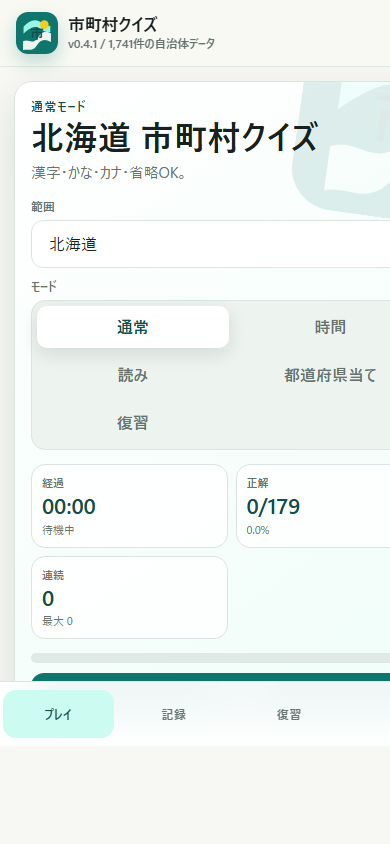
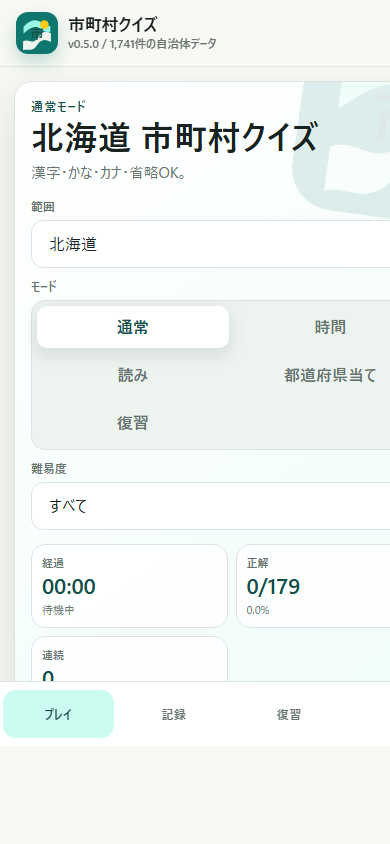
Add files via upload

Changed region(s): [[0.0615, 0.5237, 1.0, 0.8318], [0.6154, 0.5545, 0.7692, 0.7393], [0.2154, 0.0308, 0.5538, 0.0616]]

diff --git a/app.js b/app.js
@@ -40,7 +40,7 @@ const AREA_GROUPS = [
   { key: "south-kyushu-okinawa", label: "南九沖縄", prefs: ["鹿児島県", "沖縄県"] }
 ];
 
-const APP_VERSION = "v0.4.1";
+const APP_VERSION = "v0.5.0";
 const STORE_KEY = "municipality-quiz-pwa-state-v1";
 const $app = document.querySelector("#app");
 
@@ -59,6 +59,7 @@ function loadState() {
     scope: "pref:北海道",
     mode: "normal",
     timeLimit: 600,
+    difficulty: "all",
     active: null,
     sessions: [],
     reviewPref: "すべて",
@@ -67,6 +68,7 @@ function loadState() {
     wikiSummaries: {},
     lastCompleted: null,
     selectedPrefStats: null,
+    studyCardIndex: 0,
     recordsScope: "all",
     lastSavedAt: null
   };
@@ -140,6 +142,17 @@ function scopeRows(scopeKey = state.scope) {
   return master.filter((row) => targetPrefs.has(row.pref_kanji));
 }
 
+function rowMatchesDifficulty(row, difficulty = state.difficulty) {
+  if (difficulty === "city") return row.ctv_kanji.endsWith("市");
+  if (difficulty === "townVillage") return /[町村]$/.test(row.ctv_kanji);
+  if (difficulty === "noWard") return !row.ctv_kanji.endsWith("区");
+  return true;
+}
+
+function playableRows(scopeKey = state.scope, difficulty = state.difficulty) {
+  return scopeRows(scopeKey).filter((row) => rowMatchesDifficulty(row, difficulty));
+}
+
 function scopeLabel(scopeKey = state.scope) {
   return getScope(scopeKey).label;
 }
@@ -153,7 +166,7 @@ function buildScopeIndex(scopeKey) {
     if (!idx.has(k)) idx.set(k, new Set());
     idx.get(k).add(code);
   };
-  scopeRows(scopeKey).forEach((row) => {
+  playableRows(scopeKey).forEach((row) => {
     add("kanji_full", row.ctv_kanji, row.code);
     add("kanji_base", row.ctv_kanji_base, row.code);
     add("kanji_full", row.ctv_omi_kanji, row.code);
@@ -282,8 +295,8 @@ function weakStats(row) {
 }
 
 function getCurrentTotal() {
-  if (state.mode === "weak") return weakRowsForScope(state.scope).length || scopeRows(state.scope).length;
-  return scopeRows(state.scope).length;
+  if (state.mode === "weak") return weakRowsForScope(state.scope).length || playableRows(state.scope).length;
+  return playableRows(state.scope).length;
 }
 
 function startGame() {
@@ -291,6 +304,7 @@ function startGame() {
   state.active = {
     id: uid(),
     mode: state.mode,
+    difficulty: state.difficulty,
     pref: scope.label,
     scopeKey: scope.key,
     scopeLabel: scope.label,
@@ -318,10 +332,12 @@ function finishGame(auto = false) {
   const session = {
     id: active.id,
     mode: active.mode,
+    difficulty: active.difficulty,
     pref: active.pref,
     startIso: active.startIso,
     endIso: nowIso(),
     durationSec: Math.round(durationSec * 10) / 10,
+    timeLimit: active.limitSec,
     total: active.total,
     totalInputs,
     correctInputs,
@@ -422,9 +438,9 @@ function nextQuestion(render = true) {
   const active = state.active;
   let pool = [];
   if (active.mode === "reading") {
-    pool = scopeRows(active.scopeKey || state.scope);
+    pool = playableRows(active.scopeKey || state.scope);
   } else if (active.mode === "prefecture") {
-    pool = scopeRows(active.scopeKey || state.scope);
+    pool = playableRows(active.scopeKey || state.scope);
   }
   const solved = new Set(active.correctCodes);
   pool = pool.filter((row) => !solved.has(row.code));
@@ -464,7 +480,7 @@ function solvedCodesGlobal() {
 
 function weakRowsForScope(scopeKey) {
   const solved = solvedCodesGlobal();
-  return scopeRows(scopeKey).filter((row) => !solved.has(row.code));
+  return playableRows(scopeKey).filter((row) => !solved.has(row.code));
 }
 
 function allWeakRows() {
@@ -507,6 +523,21 @@ function wikiSummary(row) {
   return state.wikiSummaries?.[row.code] || "";
 }
 
+function earnedBadges() {
+  const ach = achievementByPref();
+  const totalSolved = new Set(state.sessions.flatMap((session) => session.correctCodes || [])).size;
+  const badges = [];
+  if (state.sessions.length >= 1) badges.push("初プレイ");
+  if (totalSolved >= 100) badges.push("100自治体");
+  if (totalSolved >= 500) badges.push("500自治体");
+  if (totalSolved >= 1000) badges.push("1000自治体");
+  if (ach.filter((row) => row.rate >= 1).length >= 1) badges.push("初制覇");
+  if (ach.filter((row) => row.rate >= 1).length >= 10) badges.push("10都道府県制覇");
+  if (state.sessions.some((session) => (session.totalInputs || 0) > 0 && session.correctInputs === session.totalInputs)) badges.push("ノーミス");
+  if (state.sessions.some((session) => session.mode === "time" && session.timeLimit === 180)) badges.push("3分挑戦");
+  return badges;
+}
+
 function escapeHtml(value) {
   return String(value ?? "").replace(/[&<>"']/g, (char) => ({
     "&": "&amp;",
@@ -537,6 +568,27 @@ function scopeOptions(selected = state.scope) {
   return `<optgroup label="地方・全国">${areaOptions}</optgroup><optgroup label="都道府県">${prefOptionHtml}</optgroup>`;
 }
 
+function difficultyOptions() {
+  const options = [
+    ["all", "すべて"],
+    ["city", "市だけ"],
+    ["townVillage", "町村だけ"],
+    ["noWard", "区を除く"]
+  ];
+  return options.map(([value, label]) => `<option value="${value}" ${state.difficulty === value ? "selected" : ""}>${label}</option>`).join("");
+}
+
+function duplicateReadingRows(scopeKey = state.scope) {
+  const byReading = new Map();
+  playableRows(scopeKey).forEach((row) => {
+    const key = row.ctv_omi_kana_hira_base || row.ctv_kana_hira_base;
+    if (!key) return;
+    if (!byReading.has(key)) byReading.set(key, []);
+    byReading.get(key).push(row);
+  });
+  return [...byReading.entries()].filter(([, rows]) => rows.length > 1).slice(0, 8);
+}
+
 function renderPlay() {
   const active = state.active;
   const mode = active?.mode || state.mode;
@@ -547,6 +599,7 @@ function renderPlay() {
   const timeLabel = active ? (remaining === null ? formatTime(elapsed(active)) : formatTime(remaining)) : "00:00";
   const canStart = !(state.mode === "weak" && weakRowsForScope(state.scope).length === 0);
   const currentScopeLabel = active?.scopeLabel || scopeLabel(state.scope);
+  const duplicates = !active ? duplicateReadingRows(state.scope) : [];
   return `
     <section class="hero-panel">
       <div class="hero-head">
@@ -572,6 +625,12 @@ function renderPlay() {
             </select>
           </label>
         ` : ""}
+        ${!active ? `
+          <label>
+            <span class="field-label">難易度</span>
+            <select class="select" id="difficultySelect">${difficultyOptions()}</select>
+          </label>
+        ` : ""}
       </div>
 
       <div class="stats-grid">
@@ -589,6 +648,7 @@ function renderPlay() {
         ${renderLastResult(active)}
       </div>
     </section>
+    ${duplicates.length ? `<section class="panel"><h2 class="panel-title">入力補助</h2><div class="row-sub">同じ読みがある市町村があります。市・町・村・区まで入れると狙って答えやすくなります。</div><div class="chips" style="margin-top:10px">${duplicates.map(([reading, rows]) => `<span class="chip">${escapeHtml(reading)}: ${rows.map((row) => escapeHtml(row.ctv_kanji)).join(" / ")}</span>`).join("")}</div></section>` : ""}
     ${renderLastCompleted()}
     ${renderSolvedPanel(active)}
     ${renderLogPanel(active)}
@@ -686,6 +746,7 @@ function renderLogPanel(active) {
 
 function renderRecords() {
   const ach = achievementByPref();
+  const badges = earnedBadges();
   const played = ach.filter((row) => row.count > 0).length;
   const cleared = ach.filter((row) => row.rate >= 1).length;
   const avg = ach.reduce((sum, row) => sum + row.rate, 0) / Math.max(ach.length, 1);
@@ -710,6 +771,10 @@ function renderRecords() {
       <div class="chips" style="margin-top:10px">
         ${Object.entries(MODES).map(([mode, label]) => `<span class="chip">${label}: ${Math.round(pointsByMode[mode] || 0).toLocaleString()}pt</span>`).join("")}
       </div>
+    </section>
+    <section class="panel">
+      <h2 class="panel-title">バッジ <span>${badges.length}</span></h2>
+      ${badges.length ? `<div class="chips">${badges.map((badge) => `<span class="chip">${escapeHtml(badge)}</span>`).join("")}</div>` : `<div class="empty">プレイを重ねるとバッジが増えます。</div>`}
     </section>
     <section class="panel">
       <h2 class="panel-title">都道府県別</h2>
@@ -783,6 +848,24 @@ function renderReview() {
         </div>
       `).join("")}</div>` : `<div class="empty">復習対象はまだありません。</div>`}
     </section>
+    ${weak.length ? `
+      <section class="panel">
+        <h2 class="panel-title">学習カード</h2>
+        ${(() => {
+          const row = weak[state.studyCardIndex % weak.length];
+          return `<div class="question-card">
+            <div class="question-label">${escapeHtml(row.pref_kanji)} / ${escapeHtml(row.ctv_kana)}</div>
+            <div class="question-main">${escapeHtml(row.ctv_kanji)}</div>
+          </div>
+          <div class="row-sub" style="margin-top:8px">${escapeHtml(state.notes?.[row.code] || "メモはまだありません。")}</div>
+          <div class="toolbar" style="margin-top:10px">
+            <button class="btn ghost" data-action="prevCard">前</button>
+            <button class="btn ghost" data-action="nextCard">次</button>
+            <a class="btn ghost link-btn" href="${wikipediaUrl(row)}" target="_blank" rel="noopener">Wikipedia</a>
+          </div>`;
+        })()}
+      </section>
+    ` : ""}
     <section class="panel">
       <h2 class="panel-title">未回答ランキング</h2>
       ${missed.length ? `<div class="list">${missed.map((row) => `
@@ -887,6 +970,11 @@ function bindEvents() {
     state.timeLimit = Number(event.target.value);
     saveAndRender();
   });
+  document.querySelector("#difficultySelect")?.addEventListener("change", (event) => {
+    state.difficulty = event.target.value;
+    indexCache.clear();
+    saveAndRender();
+  });
   document.querySelector("#answerForm")?.addEventListener("submit", submitAnswer);
   document.querySelector("#answerInput")?.focus();
   document.querySelector("#reviewPref")?.addEventListener("change", (event) => {
@@ -909,6 +997,14 @@ async function handleAction(event) {
   if (action === "finish") finishGame(false);
   if (action === "reset" && confirm("今回のプレイを保存せずにリセットしますか？")) resetGame();
   if (action === "nextQuestion") nextQuestion(true);
+  if (action === "nextCard") {
+    state.studyCardIndex = (state.studyCardIndex || 0) + 1;
+    saveAndRender();
+  }
+  if (action === "prevCard") {
+    state.studyCardIndex = Math.max(0, (state.studyCardIndex || 0) - 1);
+    saveAndRender();
+  }
   if (action === "wikiSummary") await fetchWikiSummary(event.currentTarget.dataset.code);
   if (action === "clearHistory" && confirm("保存済み履歴を削除しますか？")) {
     state.sessions = [];
@@ -995,10 +1091,12 @@ async function init() {
   state.notes = state.notes || {};
   state.wikiSummaries = state.wikiSummaries || {};
   state.recordsMode = state.recordsMode || "all";
+  state.difficulty = state.difficulty || "all";
+  state.studyCardIndex = state.studyCardIndex || 0;
   render();
   timer = setInterval(checkTimer, 1000);
   if ("serviceWorker" in navigator) {
-    navigator.serviceWorker.register("./service-worker.js?v=0.4.1").then((registration) => {
+    navigator.serviceWorker.register("./service-worker.js?v=0.5.0").then((registration) => {
       registration.update().catch(() => {});
     }).catch(() => {});
   }

diff --git a/index.html b/index.html
@@ -8,10 +8,10 @@
     <meta name="apple-mobile-web-app-status-bar-style" content="black-translucent" />
     <meta name="apple-mobile-web-app-title" content="市町村クイズ" />
     <title>市町村クイズ</title>
-    <link rel="manifest" href="./manifest.webmanifest?v=0.4.1" />
+    <link rel="manifest" href="./manifest.webmanifest?v=0.5.0" />
     <link rel="apple-touch-icon" href="./icons/icon-192.png" />
     <link rel="icon" href="./icons/icon.svg" type="image/svg+xml" />
-    <link rel="stylesheet" href="./styles.css?v=0.4.1" />
+    <link rel="stylesheet" href="./styles.css?v=0.5.0" />
   </head>
   <body>
     <div id="app">
@@ -20,6 +20,6 @@
         <p>読み込み中...</p>
       </div>
     </div>
-    <script src="./app.js?v=0.4.1" defer></script>
+    <script src="./app.js?v=0.5.0" defer></script>
   </body>
 </html>

diff --git a/service-worker.js b/service-worker.js
@@ -1,10 +1,10 @@
-const CACHE_NAME = "municipality-quiz-v7";
+const CACHE_NAME = "municipality-quiz-v8";
 const ASSETS = [
   "./",
   "./index.html",
-  "./styles.css?v=0.4.1",
-  "./app.js?v=0.4.1",
-  "./manifest.webmanifest?v=0.4.1",
+  "./styles.css?v=0.5.0",
+  "./app.js?v=0.5.0",
+  "./manifest.webmanifest?v=0.5.0",
   "./data/municipalities.json",
   "./icons/icon.svg",
   "./icons/icon-192.png",
